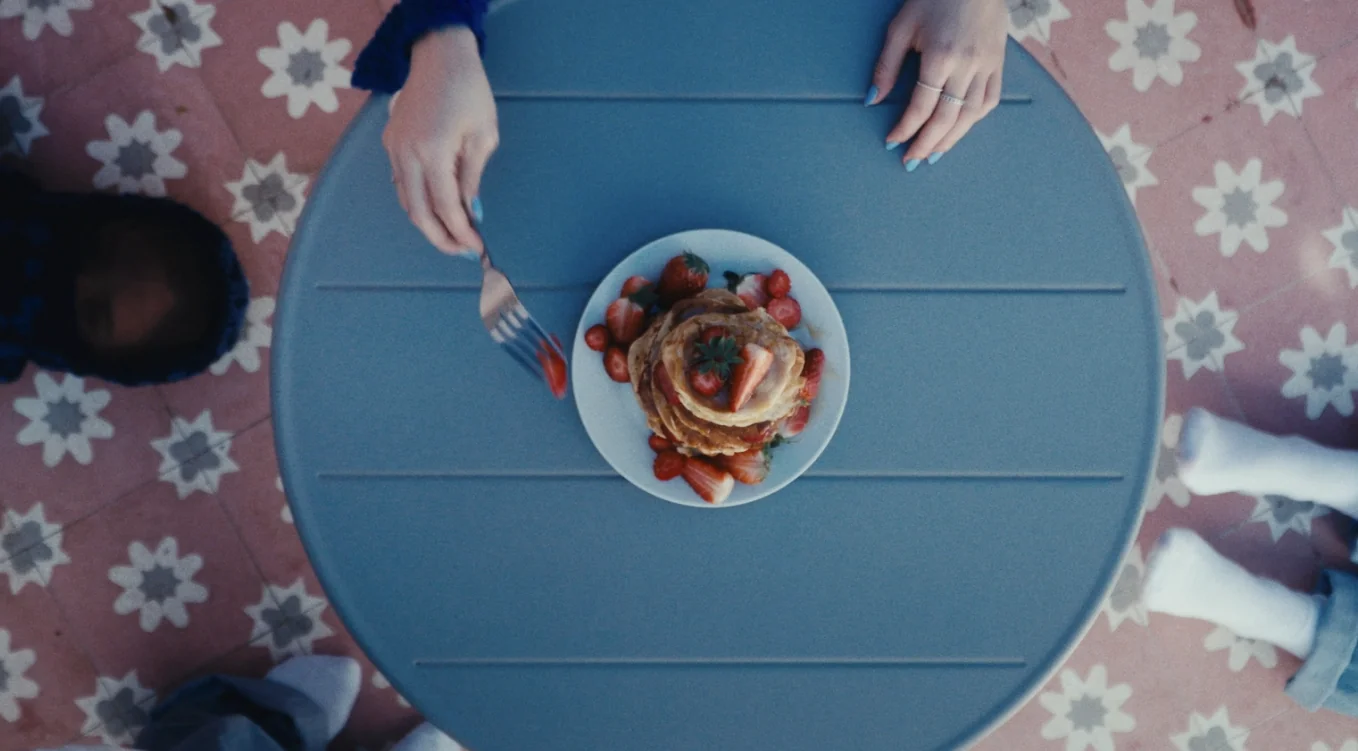
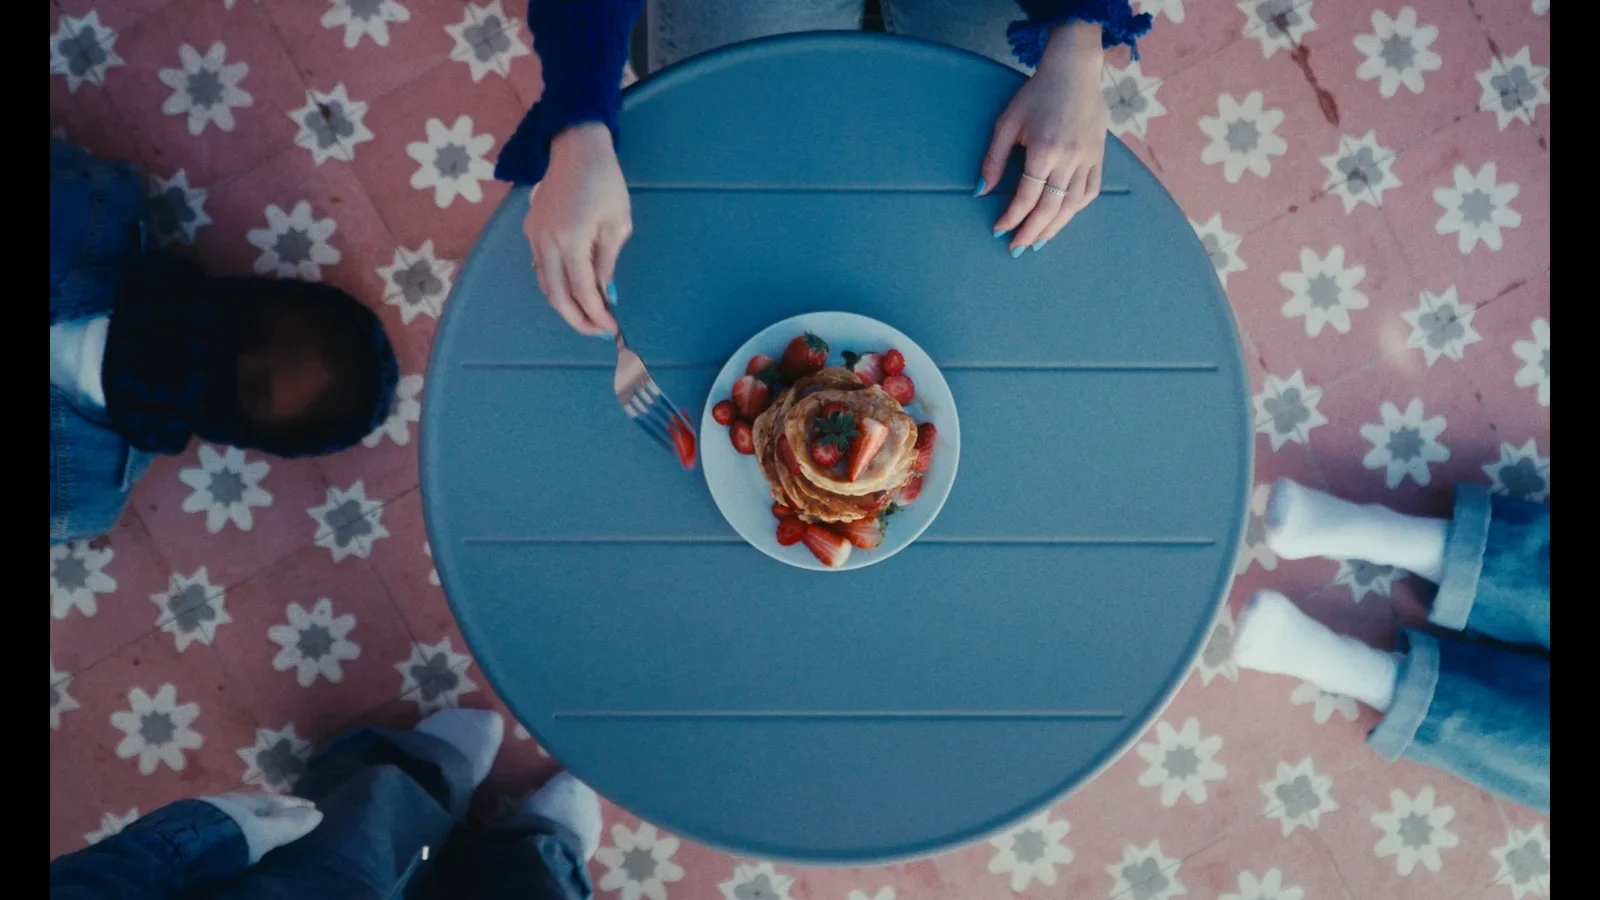
Stills de Falta Sempre Qualquer Coisa e SÓ a partir do Google Drive
Claude-Session: https://claude.ai/code/session_0176tmTAXJ32LU8RgnT42Q1k

diff --git a/falta-sempre-qualquer-coisa.html b/falta-sempre-qualquer-coisa.html
@@ -67,15 +67,30 @@ button{font:inherit;color:inherit;background:none;cursor:pointer}
 <div style="display: flex; flex-wrap: wrap; gap: 16px; padding-bottom: 12px;"><span style="position: relative; display: inline-block; background: #f8f5ef; color: #1c1b1a; border: 1px solid #1c1b1a; border-radius: 999px; padding: 5px 14px; font-size: 12px; line-height: 1.2;"><svg aria-hidden="true" width="20" height="20" viewBox="0 0 20 20" style="position: absolute; left: -7px; top: -7px;"><polygon points="11.2,1.6 12.8,7.1 19.0,8.1 13.3,11.7 14.2,17.5 9.4,14.5 3.3,16.9 5.8,10.9 1.8,5.7 8.1,6.3" fill="#f0e4a8" stroke="#f0e4a8" stroke-width="0.8" stroke-linejoin="round"></polygon></svg>Direção de Arte</span><span style="display: inline-block; border: 1px solid var(--ink); border-radius: 999px; padding: 5px 14px; font-size: 12px; line-height: 1.2;">Filme experimental</span></div>
 </section>
 
-<section style="padding: 0 48px;">
-<div style="display: grid; grid-template-columns: repeat(3, minmax(0, 1fr)); gap: 16px;">
-<div style="position: relative; aspect-ratio: 16 / 9; background: #2f2f2f;"><span style="position: absolute; left: 16px; bottom: 12px; font-size: 12px; letter-spacing: 0.06em; color: #ece9e1;">[still 1]</span></div><div style="position: relative; aspect-ratio: 16 / 9; background: #252525;"><span style="position: absolute; left: 16px; bottom: 12px; font-size: 12px; letter-spacing: 0.06em; color: #ece9e1;">[still 2]</span></div><div style="position: relative; aspect-ratio: 16 / 9; background: #404040;"><span style="position: absolute; left: 16px; bottom: 12px; font-size: 12px; letter-spacing: 0.06em; color: #ece9e1;">[still 3]</span></div><div style="position: relative; aspect-ratio: 16 / 9; background: #292929;"><span style="position: absolute; left: 16px; bottom: 12px; font-size: 12px; letter-spacing: 0.06em; color: #ece9e1;">[still 4]</span></div><div style="position: relative; aspect-ratio: 16 / 9; background: #393939;"><span style="position: absolute; left: 16px; bottom: 12px; font-size: 12px; letter-spacing: 0.06em; color: #ece9e1;">[still 5]</span></div><div style="position: relative; aspect-ratio: 16 / 9; background: #212121;"><span style="position: absolute; left: 16px; bottom: 12px; font-size: 12px; letter-spacing: 0.06em; color: #ece9e1;">[still 6]</span></div>
+<section style="padding: 0 48px; position: relative; z-index: 6;">
+<div style="position: relative; z-index: 6; margin-top: -16px;">
+<div style="display: flex; gap: 16px; margin-top: 16px;"><div style="flex: 1.3333 1 0; min-width: 0;"><img src="assets/falta/00.webp" alt="Still a preto e branco de Falta Sempre Qualquer Coisa" loading="lazy" style="display: block; width: 100%; height: auto;"></div><div style="flex: 1.3333 1 0; min-width: 0;"><img src="assets/falta/06.webp" alt="Still a preto e branco de Falta Sempre Qualquer Coisa" loading="lazy" style="display: block; width: 100%; height: auto;"></div><div style="flex: 1.3333 1 0; min-width: 0;"><img src="assets/falta/08.webp" alt="Still a preto e branco de Falta Sempre Qualquer Coisa" loading="lazy" style="display: block; width: 100%; height: auto;"></div></div>
+<div style="display: flex; gap: 16px; margin-top: 16px;"><div style="flex: 1.3333 1 0; min-width: 0;"><img src="assets/falta/12.webp" alt="Still a preto e branco de Falta Sempre Qualquer Coisa" loading="lazy" style="display: block; width: 100%; height: auto;"></div><div style="flex: 1.3333 1 0; min-width: 0;"><img src="assets/falta/20.webp" alt="Still a preto e branco de Falta Sempre Qualquer Coisa" loading="lazy" style="display: block; width: 100%; height: auto;"></div><div style="flex: 1.3333 1 0; min-width: 0;"><img src="assets/falta/23.webp" alt="Still a preto e branco de Falta Sempre Qualquer Coisa" loading="lazy" style="display: block; width: 100%; height: auto;"></div></div>
 </div>
 </section>
 <section style="display: grid; grid-template-columns: repeat(12, minmax(0, 1fr)); column-gap: 24px; padding: 96px 48px 0;">
 <div style="grid-column: 1 / span 4;"><div style="font-size: 12px; color: var(--muted); letter-spacing: 0.08em;">SINOPSE</div></div>
 <div style="grid-column: 5 / span 5;"><div style="font-family: 'Cardo', Georgia, 'Times New Roman', serif; font-size: 22px; line-height: 1.4;">Um rapaz que coleciona sapatos.</div></div>
 <div style="grid-column: 10 / span 3;"><div style="border-top: 1px solid var(--line); padding: 8px 0; font-family: 'Cardo', Georgia, 'Times New Roman', serif;"><div style="font-size: 14px; color: var(--muted);">Ano</div><div style="font-size: 16px; margin-top: 2px;">2026</div></div><div style="border-top: 1px solid var(--line); padding: 8px 0; font-family: 'Cardo', Georgia, 'Times New Roman', serif;"><div style="font-size: 14px; color: var(--muted);">Duração</div><div style="font-size: 16px; margin-top: 2px;">5 min</div></div><div style="border-top: 1px solid var(--line); padding: 8px 0; font-family: 'Cardo', Georgia, 'Times New Roman', serif;"><div style="font-size: 14px; color: var(--muted);">Realização</div><div style="font-size: 16px; margin-top: 2px;">Afonso Matos e Madalena Gouveia</div></div><div style="border-top: 1px solid var(--line); padding: 8px 0; font-family: 'Cardo', Georgia, 'Times New Roman', serif;"><div style="font-size: 14px; color: var(--muted);">Direção de Fotografia</div><div style="font-size: 16px; margin-top: 2px;">João Alves Barbosa</div></div><div style="border-top: 1px solid var(--line); padding: 8px 0; font-family: 'Cardo', Georgia, 'Times New Roman', serif;"><div style="font-size: 14px; color: var(--muted);">Direção de Arte</div><div style="font-size: 16px; margin-top: 2px;">Maria Flores</div></div></div>
+</section>
+<section style="padding: 96px 48px 0;">
+<div style="display: flex; align-items: baseline; gap: 20px; border-top: 1px solid var(--line); padding-top: 28px; margin-bottom: 32px;"><span style="font-size: 14px; color: var(--muted); letter-spacing: 0.08em;">01</span><h3 style="margin: 0; font-family: 'Special Elite', cursive; font-weight: 400; font-size: 28px; line-height: 1.1;">STILLS</h3></div>
+<div style="position: relative; z-index: 6; margin-top: -16px;">
+<div style="display: flex; gap: 16px; margin-top: 16px;"><div style="flex: 1.3333 1 0; min-width: 0;"><img src="assets/falta/01.webp" alt="Still a preto e branco de Falta Sempre Qualquer Coisa" loading="lazy" style="display: block; width: 100%; height: auto;"></div><div style="flex: 1.3333 1 0; min-width: 0;"><img src="assets/falta/02.webp" alt="Still a preto e branco de Falta Sempre Qualquer Coisa" loading="lazy" style="display: block; width: 100%; height: auto;"></div><div style="flex: 1.3333 1 0; min-width: 0;"><img src="assets/falta/03.webp" alt="Still a preto e branco de Falta Sempre Qualquer Coisa" loading="lazy" style="display: block; width: 100%; height: auto;"></div></div>
+<div style="display: flex; gap: 16px; margin-top: 16px;"><div style="flex: 1.3333 1 0; min-width: 0;"><img src="assets/falta/04.webp" alt="Still a preto e branco de Falta Sempre Qualquer Coisa" loading="lazy" style="display: block; width: 100%; height: auto;"></div><div style="flex: 1.3333 1 0; min-width: 0;"><img src="assets/falta/05.webp" alt="Still a preto e branco de Falta Sempre Qualquer Coisa" loading="lazy" style="display: block; width: 100%; height: auto;"></div><div style="flex: 1.3333 1 0; min-width: 0;"><img src="assets/falta/07.webp" alt="Still a preto e branco de Falta Sempre Qualquer Coisa" loading="lazy" style="display: block; width: 100%; height: auto;"></div></div>
+<div style="display: flex; gap: 16px; margin-top: 16px;"><div style="flex: 1.3333 1 0; min-width: 0;"><img src="assets/falta/09.webp" alt="Still a preto e branco de Falta Sempre Qualquer Coisa" loading="lazy" style="display: block; width: 100%; height: auto;"></div><div style="flex: 1.3333 1 0; min-width: 0;"><img src="assets/falta/10.webp" alt="Still a preto e branco de Falta Sempre Qualquer Coisa" loading="lazy" style="display: block; width: 100%; height: auto;"></div><div style="flex: 1.3333 1 0; min-width: 0;"><img src="assets/falta/11.webp" alt="Still a preto e branco de Falta Sempre Qualquer Coisa" loading="lazy" style="display: block; width: 100%; height: auto;"></div></div>
+<div style="display: flex; gap: 16px; margin-top: 16px;"><div style="flex: 1.3333 1 0; min-width: 0;"><img src="assets/falta/13.webp" alt="Still a preto e branco de Falta Sempre Qualquer Coisa" loading="lazy" style="display: block; width: 100%; height: auto;"></div><div style="flex: 1.3333 1 0; min-width: 0;"><img src="assets/falta/14.webp" alt="Still a preto e branco de Falta Sempre Qualquer Coisa" loading="lazy" style="display: block; width: 100%; height: auto;"></div><div style="flex: 1.3333 1 0; min-width: 0;"><img src="assets/falta/15.webp" alt="Still a preto e branco de Falta Sempre Qualquer Coisa" loading="lazy" style="display: block; width: 100%; height: auto;"></div></div>
+<div style="display: flex; gap: 16px; margin-top: 16px;"><div style="flex: 1.3333 1 0; min-width: 0;"><img src="assets/falta/16.webp" alt="Still a preto e branco de Falta Sempre Qualquer Coisa" loading="lazy" style="display: block; width: 100%; height: auto;"></div><div style="flex: 1.3333 1 0; min-width: 0;"><img src="assets/falta/17.webp" alt="Still a preto e branco de Falta Sempre Qualquer Coisa" loading="lazy" style="display: block; width: 100%; height: auto;"></div><div style="flex: 1.3333 1 0; min-width: 0;"><img src="assets/falta/18.webp" alt="Still a preto e branco de Falta Sempre Qualquer Coisa" loading="lazy" style="display: block; width: 100%; height: auto;"></div></div>
+<div style="display: flex; gap: 16px; margin-top: 16px;"><div style="flex: 1.3333 1 0; min-width: 0;"><img src="assets/falta/19.webp" alt="Still a preto e branco de Falta Sempre Qualquer Coisa" loading="lazy" style="display: block; width: 100%; height: auto;"></div><div style="flex: 1.3333 1 0; min-width: 0;"><img src="assets/falta/21.webp" alt="Still a preto e branco de Falta Sempre Qualquer Coisa" loading="lazy" style="display: block; width: 100%; height: auto;"></div><div style="flex: 1.3333 1 0; min-width: 0;"><img src="assets/falta/22.webp" alt="Still a preto e branco de Falta Sempre Qualquer Coisa" loading="lazy" style="display: block; width: 100%; height: auto;"></div></div>
+<div style="display: flex; gap: 16px; margin-top: 16px;"><div style="flex: 1.3333 1 0; min-width: 0;"><img src="assets/falta/24.webp" alt="Still a preto e branco de Falta Sempre Qualquer Coisa" loading="lazy" style="display: block; width: 100%; height: auto;"></div><div style="flex: 1.3333 1 0; min-width: 0;"><img src="assets/falta/25.webp" alt="Still a preto e branco de Falta Sempre Qualquer Coisa" loading="lazy" style="display: block; width: 100%; height: auto;"></div><div style="flex: 1.3333 1 0; min-width: 0;"><img src="assets/falta/26.webp" alt="Still a preto e branco de Falta Sempre Qualquer Coisa" loading="lazy" style="display: block; width: 100%; height: auto;"></div></div>
+<div style="display: flex; gap: 16px; margin-top: 16px;"><div style="flex: 1.3333 1 0; min-width: 0;"><img src="assets/falta/27.webp" alt="Still a preto e branco de Falta Sempre Qualquer Coisa" loading="lazy" style="display: block; width: 100%; height: auto;"></div><div style="flex: 1.3333 1 0; min-width: 0;"><img src="assets/falta/28.webp" alt="Still a preto e branco de Falta Sempre Qualquer Coisa" loading="lazy" style="display: block; width: 100%; height: auto;"></div><div style="flex: 1.3333 1 0; min-width: 0;"><img src="assets/falta/29.webp" alt="Still a preto e branco de Falta Sempre Qualquer Coisa" loading="lazy" style="display: block; width: 100%; height: auto;"></div></div>
+<div style="display: flex; gap: 16px; margin-top: 16px;"><div style="flex: 1.3333 1 0; min-width: 0;"><img src="assets/falta/30.webp" alt="Still a preto e branco de Falta Sempre Qualquer Coisa" loading="lazy" style="display: block; width: 100%; height: auto;"></div><div style="flex: 1.3333 1 0; min-width: 0;"><img src="assets/falta/31.webp" alt="Still a preto e branco de Falta Sempre Qualquer Coisa" loading="lazy" style="display: block; width: 100%; height: auto;"></div><div style="flex: 1.3333 1 0; min-width: 0;"><img src="assets/falta/32.webp" alt="Still a preto e branco de Falta Sempre Qualquer Coisa" loading="lazy" style="display: block; width: 100%; height: auto;"></div></div>
+</div>
 </section>
 <section style="padding: 112px 48px 0;">
 <h2 style="margin: 0 0 40px; font-family: 'Special Elite', cursive; font-weight: 400; font-size: 28px; line-height: 1;">EQUIPA</h2>

diff --git a/so.html b/so.html
@@ -68,12 +68,23 @@ button{font:inherit;color:inherit;background:none;cursor:pointer}
 </section>
 
 <section style="padding: 0 48px; position: relative; z-index: 6;">
-<div style="position: relative; z-index: 6;"><img src="assets/9a62de305f1aa6fd172630bf00d38b3b.webp" alt="Seis stills do videoclipe: uma figura deitada sob um véu, uma mesa redonda vista de cima com panquecas, uma rapariga sentada numa cama branca, uma rapariga numa varanda com uma pilha de panquecas, mãos de luvas brancas à volta da mesa e uma secretária sob um véu" style="display: block; height: auto; width: 100%;"></div>
+<div style="position: relative; z-index: 6; margin-top: -16px;">
+<div style="display: flex; gap: 16px; margin-top: 16px;"><div style="flex: 1.7778 1 0; min-width: 0;"><img src="assets/so/07.webp" alt="Rapariga deitada sob um véu, com figuras de fato azul ao fundo" loading="lazy" style="display: block; width: 100%; height: auto;"></div><div style="flex: 1.7778 1 0; min-width: 0;"><img src="assets/so/09.webp" alt="Mesa redonda azul vista de cima, com panquecas e morangos" loading="lazy" style="display: block; width: 100%; height: auto;"></div><div style="flex: 1.7778 1 0; min-width: 0;"><img src="assets/so/10.webp" alt="Rapariga sentada numa cama branca entre figuras de fato azul" loading="lazy" style="display: block; width: 100%; height: auto;"></div></div>
+<div style="display: flex; gap: 16px; margin-top: 16px;"><div style="flex: 1.7778 1 0; min-width: 0;"><img src="assets/so/00.webp" alt="Rapariga sentada à janela com uma pilha de panquecas" loading="lazy" style="display: block; width: 100%; height: auto;"></div><div style="flex: 2.3465 1 0; min-width: 0;"><img src="assets/so/01.webp" alt="Mãos com luvas brancas à volta de uma mesa azul" loading="lazy" style="display: block; width: 100%; height: auto;"></div><div style="flex: 2.3529 1 0; min-width: 0;"><img src="assets/so/02.webp" alt="Secretária num sótão coberto por véus brancos" loading="lazy" style="display: block; width: 100%; height: auto;"></div></div>
+</div>
 </section>
 <section style="display: grid; grid-template-columns: repeat(12, minmax(0, 1fr)); column-gap: 24px; padding: 96px 48px 0;">
 <div style="grid-column: 1 / span 4;"><div style="font-size: 12px; color: var(--muted); letter-spacing: 0.08em;">SINOPSE</div></div>
 <div style="grid-column: 5 / span 5;"><div style="font-family: 'Cardo', Georgia, 'Times New Roman', serif; font-size: 22px; line-height: 1.4;">[sinopse do videoclipe]</div></div>
 <div style="grid-column: 10 / span 3;"><div style="border-top: 1px solid var(--line); padding: 8px 0; font-family: 'Cardo', Georgia, 'Times New Roman', serif;"><div style="font-size: 14px; color: var(--muted);">Ano</div><div style="font-size: 16px; margin-top: 2px;">2025</div></div><div style="border-top: 1px solid var(--line); padding: 8px 0; font-family: 'Cardo', Georgia, 'Times New Roman', serif;"><div style="font-size: 14px; color: var(--muted);">Duração</div><div style="font-size: 16px; margin-top: 2px;">2:48 min</div></div><div style="border-top: 1px solid var(--line); padding: 8px 0; font-family: 'Cardo', Georgia, 'Times New Roman', serif;"><div style="font-size: 14px; color: var(--muted);">Formato</div><div style="font-size: 16px; margin-top: 2px;">Videoclipe</div></div><div style="border-top: 1px solid var(--line); padding: 8px 0; font-family: 'Cardo', Georgia, 'Times New Roman', serif;"><div style="font-size: 14px; color: var(--muted);">Função</div><div style="font-size: 16px; margin-top: 2px;">Aderecista</div></div><a class="nl" href="https://www.youtube.com/watch?v=cEUa3SJD_sw" style="display: inline-block; margin-top: 16px; padding: 12px 0; font-size: 14px; text-decoration: underline; text-decoration-color: #de5aab; text-decoration-thickness: 2px; text-underline-offset: 6px;">Ver o videoclipe →</a></div>
+</section>
+<section style="padding: 96px 48px 0;">
+<div style="display: flex; align-items: baseline; gap: 20px; border-top: 1px solid var(--line); padding-top: 28px; margin-bottom: 32px;"><span style="font-size: 14px; color: var(--muted); letter-spacing: 0.08em;">01</span><h3 style="margin: 0; font-family: 'Special Elite', cursive; font-weight: 400; font-size: 28px; line-height: 1.1;">STILLS</h3></div>
+<div style="position: relative; z-index: 6; margin-top: -16px;">
+<div style="display: flex; gap: 16px; margin-top: 16px;"><div style="flex: 1.7778 1 0; min-width: 0;"><img src="assets/so/03.webp" alt="Figuras de fato azul numa praia entre rochedos" loading="lazy" style="display: block; width: 100%; height: auto;"></div><div style="flex: 1.7778 1 0; min-width: 0;"><img src="assets/so/08.webp" alt="Figura de passa-montanhas azul em frente às rochas" loading="lazy" style="display: block; width: 100%; height: auto;"></div><div style="flex: 1.7778 1 0; min-width: 0;"><img src="assets/so/04.webp" alt="Figuras de fato azul alinhadas junto ao mar" loading="lazy" style="display: block; width: 100%; height: auto;"></div></div>
+<div style="display: flex; gap: 16px; margin-top: 16px;"><div style="flex: 1.7778 1 0; min-width: 0;"><img src="assets/so/05.webp" alt="Retrato da rapariga entre folhagem escura" loading="lazy" style="display: block; width: 100%; height: auto;"></div><div style="flex: 1.7778 1 0; min-width: 0;"><img src="assets/so/06.webp" alt="Mesa de cabeceira com espelho redondo e jornais" loading="lazy" style="display: block; width: 100%; height: auto;"></div><div style="flex: 1.7778 1 0; min-width: 0;"><img src="assets/so/11.webp" alt="Rapariga entre arbustos com figuras de fato azul" loading="lazy" style="display: block; width: 100%; height: auto;"></div></div>
+<div style="display: flex; gap: 16px; margin-top: 16px;"><div style="flex: 1.7778 1 0; min-width: 0;"><img src="assets/so/12.webp" alt="Piscina ao entardecer com figuras deitadas à volta" loading="lazy" style="display: block; width: 100%; height: auto;"></div><div style="flex: 1.7778 1 0; min-width: 0;"><img src="assets/so/13.webp" alt="Silhueta de capuz em frente ao mar" loading="lazy" style="display: block; width: 100%; height: auto;"></div><div style="flex: 1.7778 1 0; min-width: 0;"><img src="assets/so/14.webp" alt="Farol ao entardecer sobre as rochas" loading="lazy" style="display: block; width: 100%; height: auto;"></div></div>
+</div>
 </section>
 <section style="padding: 112px 48px 0;">
 <h2 style="margin: 0 0 40px; font-family: 'Special Elite', cursive; font-weight: 400; font-size: 28px; line-height: 1;">EQUIPA</h2>
